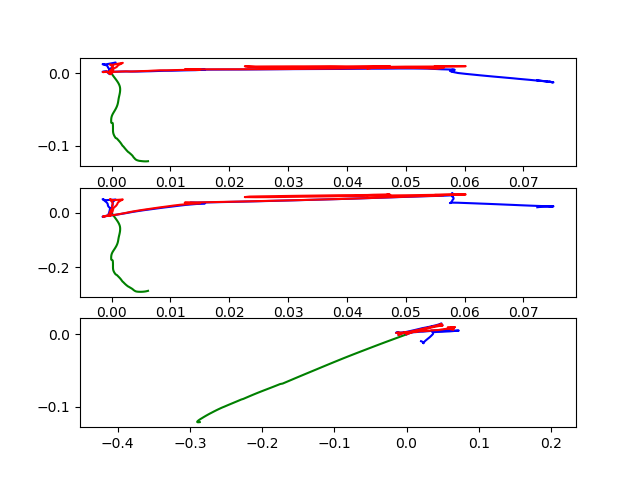
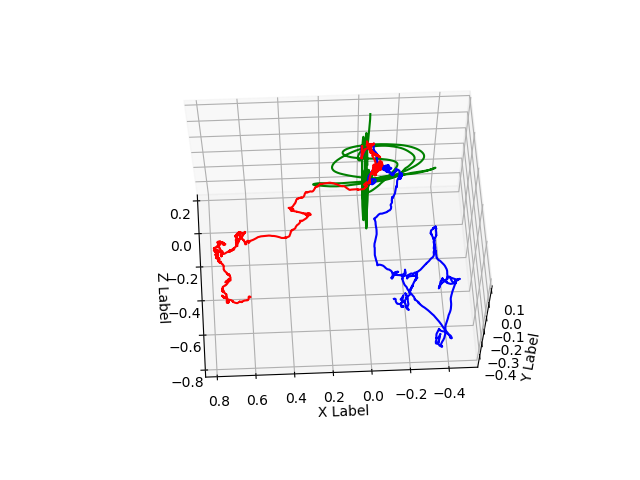
added 3d plot for euroc

diff --git a/kpT0_Euroc.py b/kpT0_Euroc.py
@@ -85,7 +85,7 @@ def plot_pt_cloud(x, outfn):
     ax.set_zlabel('Y Label')
     ax.view_init(azim=177, elev=65)
     ax.scatter(x[2, :], -x[0, :], x[1, :], marker='.')
-    ax_data = ax.plot([0], [0], [0], marker='.')[0]
+    #ax_data = ax.plot([0], [0], [0], marker='.')[0]
     plt.show()
     
     #plt.savefig(outfn)
@@ -118,17 +118,25 @@ def plot_trajs(P, outfn, colors='gbr', glb=False):
         for p in P:
             pts.append(p)
     pts = np.array(pts)
+
+    #fig, axs = plt.subplots(3) #3
+    fig = plt.figure()
+    c = 'gbr'
+    ax = fig.add_subplot(111, projection='3d')
+    ax.set_xlabel('Z Label')
+    ax.set_ylabel('X Label')
+    ax.set_zlabel('Y Label')
+    ax.view_init(azim=177, elev=65)
+
+    #plt.axis('equal')
     
-    #fig = plt.figure()
-    fig, axs = plt.subplots(3) #3
-    plt.axis('equal')
-    
-    #ax = fig.add_subplot(111)
-    #ax2 = fig.add_subplot(111)
     for i, p in enumerate(pts):
-        axs[0].plot(p[:, 0], p[:, 2], f'{colors[i]}-')
-        axs[1].plot(p[:, 0], p[:, 1], f'{colors[i]}-')
-        axs[2].plot(p[:, 1], p[:, 2], f'{colors[i]}-')
+        ax.plot(p[:, 2], -p[:, 0], p[:, 1], f'{c[i]}-')
+        #ax.scatter(p[:, 2], -p[:, 0], p[:, 1], marker='.', c=c[i])
+
+        #axs[0].plot(p[:, 0], p[:, 2], f'{colors[i]}-')
+        #axs[1].plot(p[:, 0], p[:, 1], f'{colors[i]}-')
+        #axs[2].plot(p[:, 1], p[:, 2], f'{colors[i]}-')
     
     plt.savefig(outfn)
     plt.close(fig)
@@ -219,7 +227,7 @@ class KpT0:
 
 
 if __name__ == '__main__':
-    seq_id = 'V2_01_easy' #'MH_01_easy'
+    seq_id = 'MH_01_easy' # 'V2_01_easy'
     bdir = '/home/ronnypetson/Downloads/'
     h, w = 480, 752
     kp = KpT0(h, w, bdir, seq_id)
@@ -249,8 +257,8 @@ if __name__ == '__main__':
         x_ = np.concatenate([x_, z], axis=0)
         
         opt = OptSingle(x, x_, c)
-        #T0 = SE3.from_matrix(T).inv().log()
-        T0 = np.zeros(6)
+        T0 = SE3.from_matrix(T).inv().log()
+        #T0 = np.zeros(6)
         foe0 = np.array([w/2.0, h/2.0])
         #foe0 = foe0 + 1e1*np.random.randn(2) ###
         Tfoe = opt.optimize(T0, foe0)
